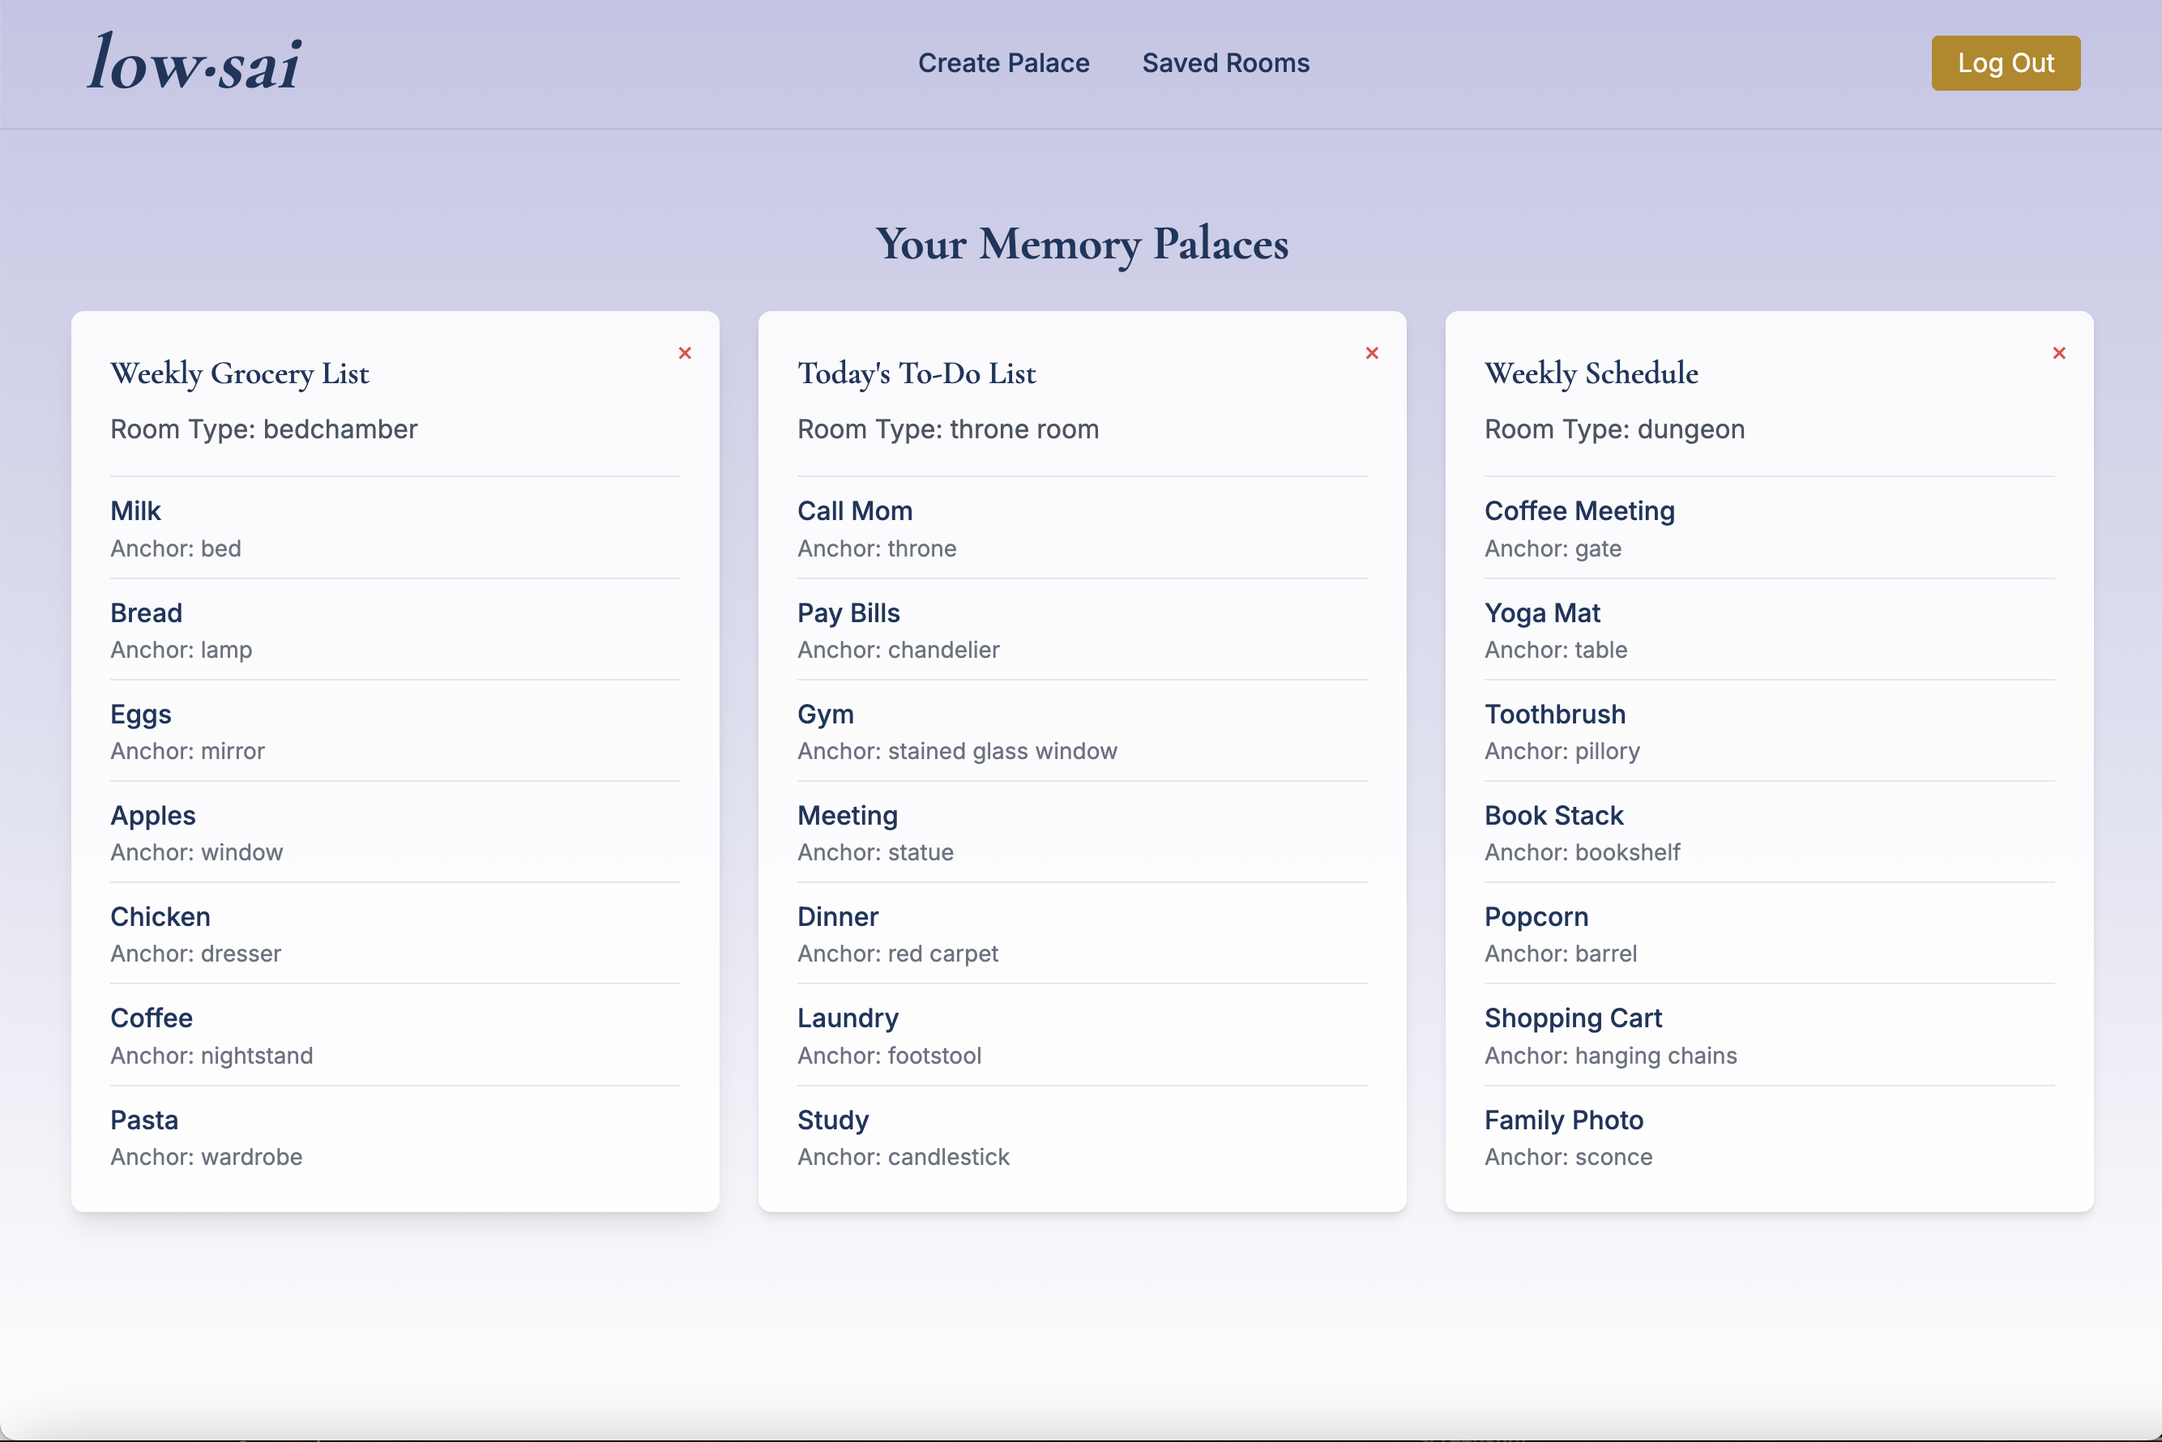
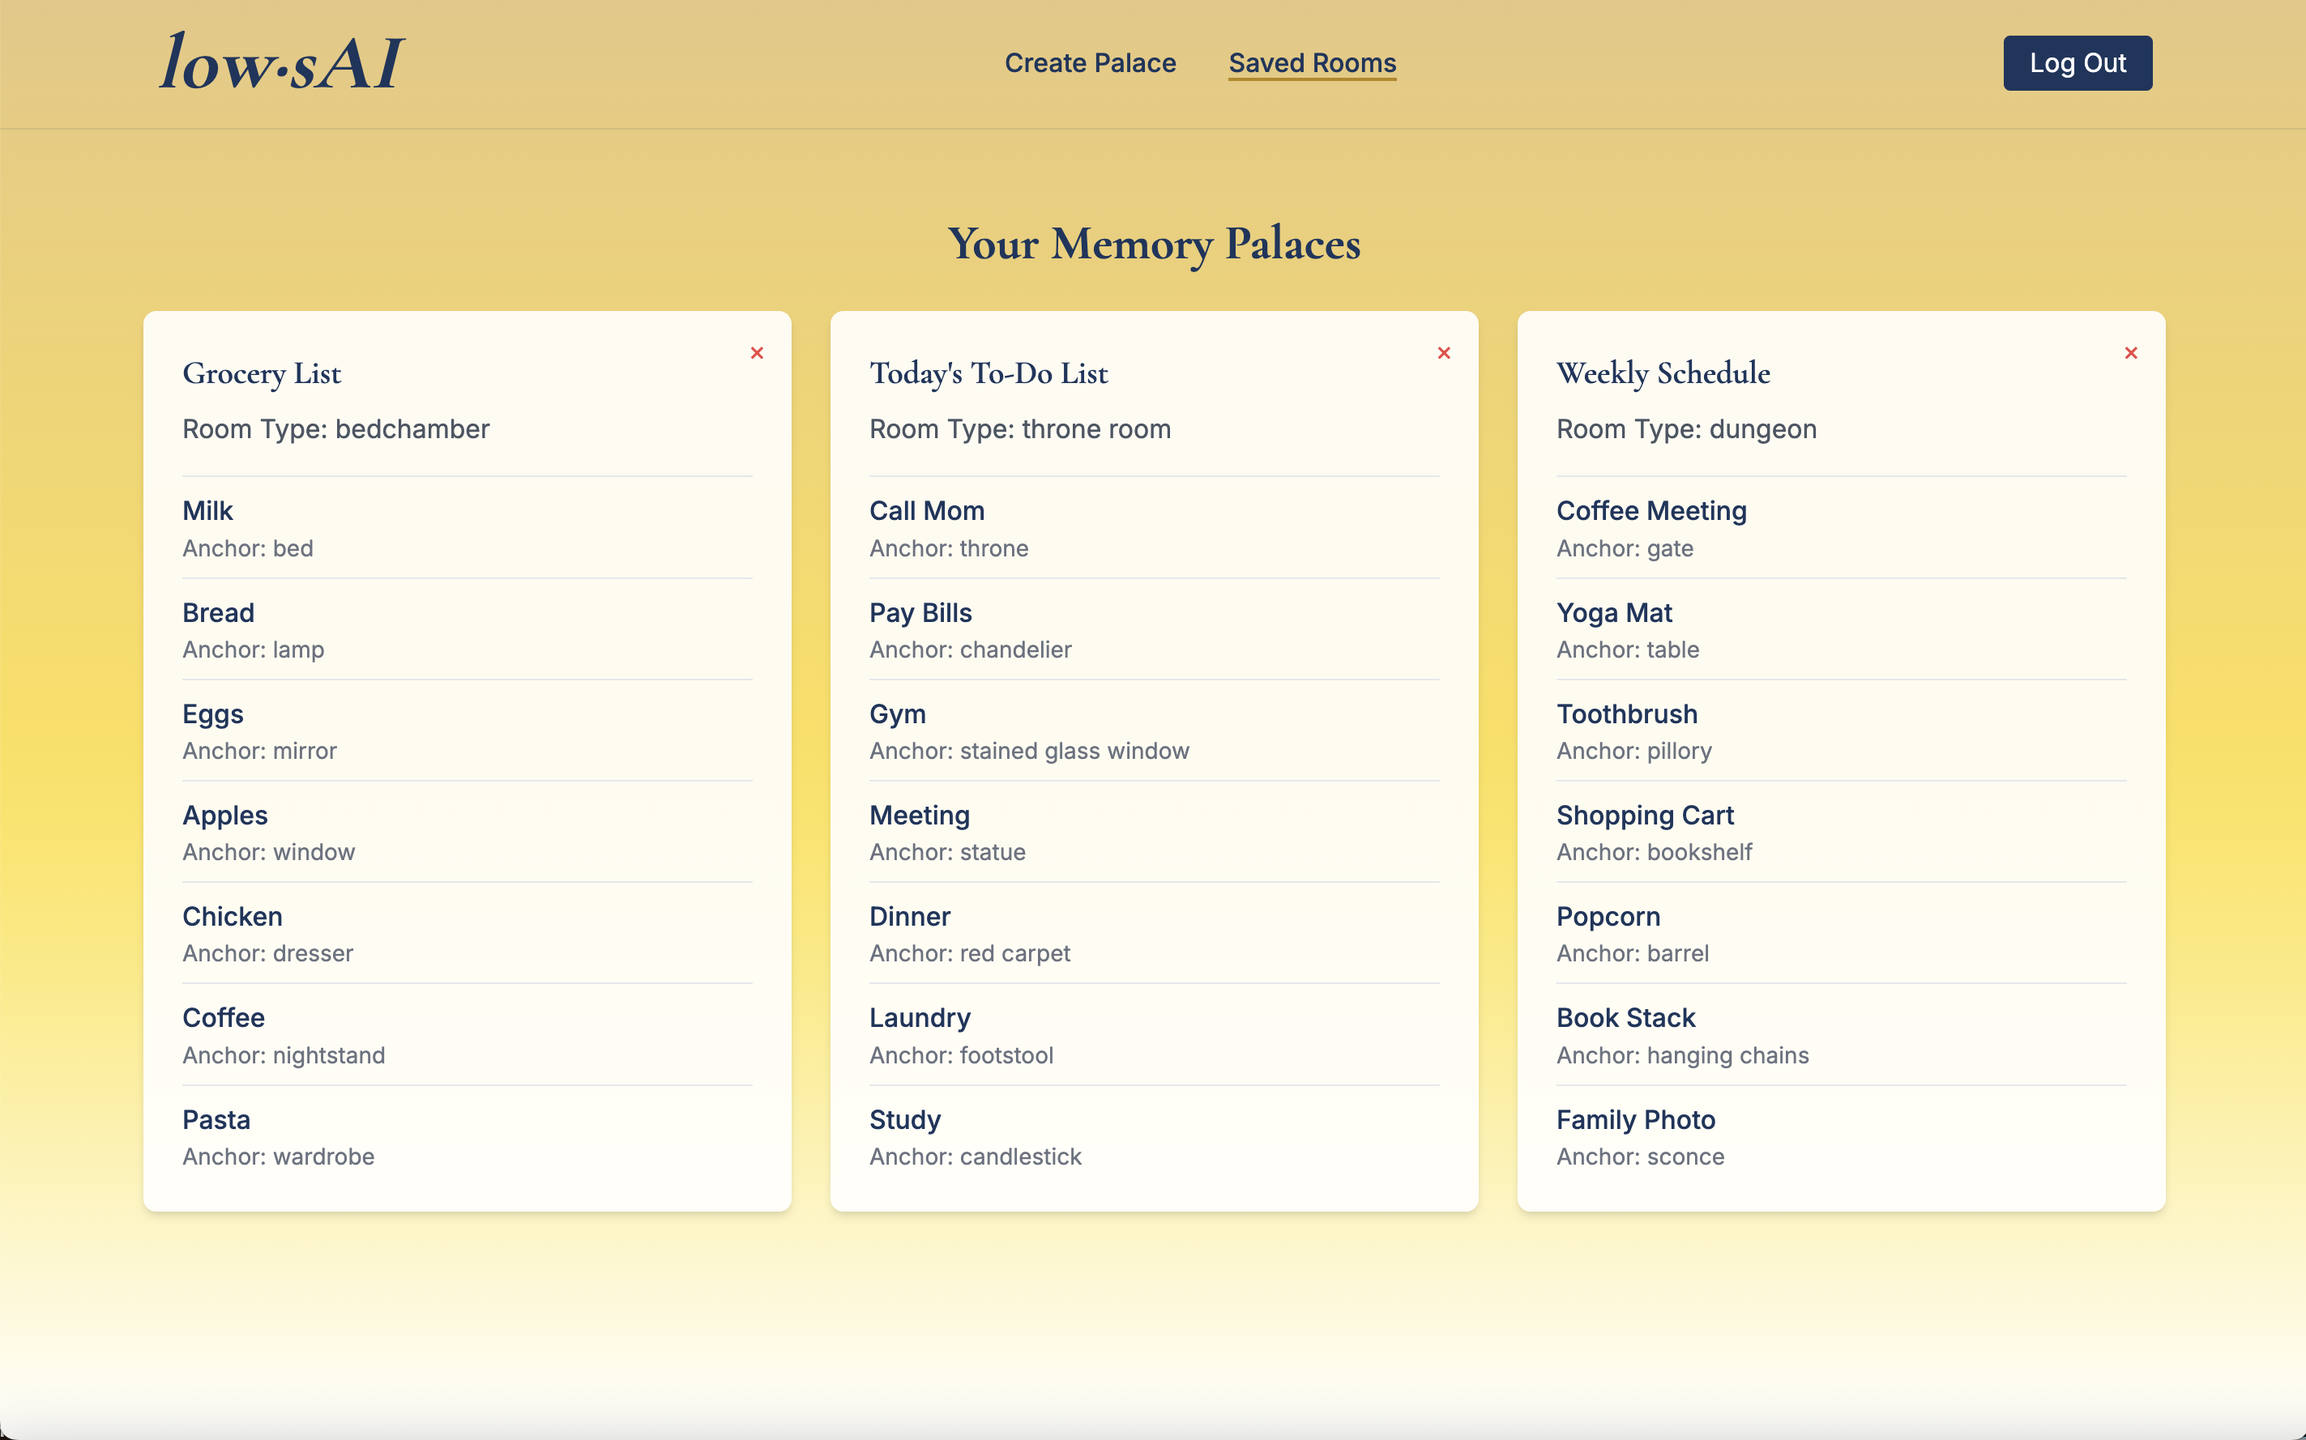
loading spinner

diff --git a/client/src/components/LandingPage.js b/client/src/components/LandingPage.js
@@ -2,6 +2,7 @@ import React from 'react';
 import { useNavigate } from 'react-router-dom';
 import NavBar from './NavBar';
 import AuthModal from './AuthModal';
+import LoadingSpinner from './LoadingSpinner';
 import './LandingPage.css';
 
 const LandingPage = () => {
@@ -176,6 +177,42 @@ const LandingPage = () => {
                 );
               }
             })}
+          </div>
+        </section>
+        {/* Coming Soon Section */}
+        <section className="py-20 px-4 bg-gradient-to-b from-white to-[#2B4C7E]/10">
+          <div className="container mx-auto max-w-6xl">
+            <h2 className="loci-header text-4xl text-center mb-12 !text-primary">
+              Coming Soon
+            </h2>
+            <div className="grid md:grid-cols-2 lg:grid-cols-3 gap-8">
+              <div className="bg-white/80 p-6 rounded-lg shadow-lg">
+                <div className="text-4xl mb-4">🔐</div>
+                <h3 className="text-xl font-semibold mb-2 text-primary">User Accounts</h3>
+                <p className="text-text-light">Save and manage multiple memory palaces with your personal account.</p>
+              </div>
+              <div className="bg-white/80 p-6 rounded-lg shadow-lg">
+                <div className="text-4xl mb-4">🎨</div>
+                <h3 className="text-xl font-semibold mb-2 text-primary">More Room Types</h3>
+                <p className="text-text-light">New room types including Great Hall, Chapel, and Kitchen coming soon.</p>
+              </div>
+              <div className="bg-white/80 p-6 rounded-lg shadow-lg">
+                <div className="text-4xl mb-4">📱</div>
+                <h3 className="text-xl font-semibold mb-2 text-primary">Mobile App</h3>
+                <p className="text-text-light">Access your memory palaces on the go with our upcoming mobile app.</p>
+              </div>
+              <div className="bg-white/80 p-6 rounded-lg shadow-lg">
+                <div className="text-4xl mb-4">🧠</div>
+                <h3 className="text-xl font-semibold mb-2 text-primary">Enhanced Memory Creation</h3>
+                <p className="text-text-light">Two-stage AI process: LLM generates creative associations, followed by AI image generation for more memorable visual anchors.</p>
+              </div>
+              <div className="hidden lg:block"></div>
+              <div className="bg-white/80 p-6 rounded-lg shadow-lg">
+                <div className="text-4xl mb-4">🏠</div>
+                <h3 className="text-xl font-semibold mb-2 text-primary">Custom Room Creation</h3>
+                <p className="text-text-light">Create personalized memory palaces using AI to generate rooms that match your familiar spaces, making memory associations even stronger.</p>
+              </div>
+            </div>
           </div>
         </section>
         {/* Use Cases Section */}

diff --git a/client/src/components/AuthModal.js b/client/src/components/AuthModal.js
@@ -1,4 +1,5 @@
 import React from 'react';
+import LoadingSpinner from './LoadingSpinner';
 
 const AuthModal = ({ isOpen, onClose, mode, onSubmit, error, isLoading, formData, setFormData }) => {
     const handleInputChange = (e) => {
@@ -51,6 +52,7 @@ const AuthModal = ({ isOpen, onClose, mode, onSubmit, error, isLoading, formData
                             className="w-full px-4 py-2 border border-gray-300 rounded-md focus:outline-none focus:ring-2 focus:ring-primary focus:border-transparent"
                             required
                             autoComplete="off"
+                            disabled={isLoading}
                         />
                     </div>
 
@@ -67,6 +69,7 @@ const AuthModal = ({ isOpen, onClose, mode, onSubmit, error, isLoading, formData
                             className="w-full px-4 py-2 border border-gray-300 rounded-md focus:outline-none focus:ring-2 focus:ring-primary focus:border-transparent"
                             required
                             autoComplete="new-password"
+                            disabled={isLoading}
                         />
                     </div>
 
@@ -83,6 +86,7 @@ const AuthModal = ({ isOpen, onClose, mode, onSubmit, error, isLoading, formData
                                 onChange={handleInputChange}
                                 className="w-full px-4 py-2 border border-gray-300 rounded-md focus:outline-none focus:ring-2 focus:ring-primary focus:border-transparent"
                                 required
+                                disabled={isLoading}
                             />
                         </div>
                     )}
@@ -90,9 +94,16 @@ const AuthModal = ({ isOpen, onClose, mode, onSubmit, error, isLoading, formData
                     <button
                         type="submit"
                         disabled={isLoading}
-                        className="w-full px-6 py-3 bg-primary text-white rounded-lg hover:bg-primary-dark transition-colors duration-300 disabled:opacity-50 font-medium"
+                        className="w-full px-6 py-3 bg-primary text-white rounded-lg hover:bg-primary-dark transition-colors duration-300 disabled:opacity-50 font-medium flex items-center justify-center"
                     >
-                        {isLoading ? 'Processing...' : (mode === 'login' ? 'Login' : 'Sign Up')}
+                        {isLoading ? (
+                            <>
+                                <LoadingSpinner size="sm" text="" className="mr-2" />
+                                Processing...
+                            </>
+                        ) : (
+                            mode === 'login' ? 'Login' : 'Sign Up'
+                        )}
                     </button>
                 </form>
             </div>

diff --git a/client/src/components/InputPage.js b/client/src/components/InputPage.js
@@ -2,6 +2,7 @@ import React, { useState, useEffect } from 'react';
 import axios from 'axios';
 import { ROOM_ANCHOR_POSITIONS } from '../constants/roomData';
 import NavBar from './NavBar';
+import LoadingSpinner from './LoadingSpinner';
 
 const ROOM_TYPES = [
     "throne room",
@@ -102,7 +103,7 @@ const InputPage = ({ onImagesGenerated, setIsLoading, isLoading }) => {
         setError(null);
     };
 
-    const handleProceedToVisualizer = () => {
+    const handleProceedToVisualizer = async () => {
         const memorablesList = memorables.split('\n')
             .map(item => item.trim())
             .filter(Boolean);
@@ -228,10 +229,17 @@ const InputPage = ({ onImagesGenerated, setIsLoading, isLoading }) => {
                                 <button
                                     type="submit"
                                     onClick={handleProceedToVisualizer}
-                                    className="flex-1 btn-loci text-lg px-8 py-4"
                                     disabled={isLoading}
+                                    className="flex-1 btn-loci text-lg px-8 py-4 disabled:opacity-50 disabled:cursor-not-allowed flex items-center justify-center"
                                 >
-                                    PROCEED TO VISUALIZER
+                                    {isLoading ? (
+                                        <>
+                                            <LoadingSpinner size="sm" text="" className="mr-2" />
+                                            GENERATING IMAGES...
+                                        </>
+                                    ) : (
+                                        'PROCEED TO VISUALIZER'
+                                    )}
                                 </button>
                                 <button
                                     type="button"

diff --git a/client/src/components/HomePage.js b/client/src/components/HomePage.js
@@ -2,6 +2,7 @@ import React, { useState } from 'react';
 import { useNavigate } from 'react-router-dom';
 import NavBar from './NavBar';
 import AuthModal from './AuthModal';
+import LoadingSpinner from './LoadingSpinner';
 import floatingCastle from '../assets/floating-castle.png';
 import wizardHat from '../assets/wizard-hat.png';
 import magicWand from '../assets/magic-wand.png';
@@ -130,9 +131,16 @@ const HomePage = () => {
                 <button
                         onClick={handleDemoLogin}
                         disabled={isLoading}
-                        className="px-8 py-4 bg-primary text-white rounded-lg hover:bg-primary-dark transition-colors duration-300 disabled:opacity-50 font-medium text-lg"
+                        className="px-8 py-4 bg-primary text-white rounded-lg hover:bg-primary-dark transition-colors duration-300 disabled:opacity-50 font-medium text-lg flex items-center justify-center mx-auto"
                 >
-                        Try Demo Version
+                        {isLoading ? (
+                            <>
+                                <LoadingSpinner size="sm" text="" className="mr-2" />
+                                Loading Demo...
+                            </>
+                        ) : (
+                            'Try Demo Version'
+                        )}
                 </button>
                 </div>
 

diff --git a/client/src/components/VisualizerPage.js b/client/src/components/VisualizerPage.js
@@ -4,6 +4,7 @@ import ImagePopup from './ImagePopup';
 import SaveRoomModal from './SaveRoomModal';
 import { generateImage } from '../services/imageService';
 import NavBar from './NavBar';
+import LoadingSpinner from './LoadingSpinner';
 
 const VisualizerPage = () => {
   const [selectedAssociation, setSelectedAssociation] = useState(null);
@@ -199,9 +200,14 @@ const VisualizerPage = () => {
                   height: '40px',
                 }}
                 onClick={(e) => handleClick(assoc, e)}
+                disabled={isLoading}
               >
-                <div className="w-full h-full flex items-center justify-center text-white/40 hover:text-white/60 transition-colors duration-200 text-xl font-bold">
-                  {acceptedImages[assoc.anchor] && acceptedImages[assoc.anchor].image ? '✓' : '?'}
+                <div className="w-full h-full bg-primary bg-opacity-75 rounded-full flex items-center justify-center text-white text-xs font-bold hover:bg-opacity-100 transition-all duration-200">
+                  {isLoading && selectedAssociation?.anchor === assoc.anchor ? (
+                    <LoadingSpinner size="sm" text="" />
+                  ) : (
+                    index + 1
+                  )}
                 </div>
               </button>
             );

diff --git a/client/src/components/SavedRooms.js b/client/src/components/SavedRooms.js
@@ -1,6 +1,7 @@
 import React, { useState, useEffect } from 'react';
 import { useNavigate } from 'react-router-dom';
 import NavBar from './NavBar';
+import LoadingSpinner from './LoadingSpinner';
 
 const API_URL = 'http://localhost:5000';
 
@@ -164,7 +165,9 @@ const SavedRooms = () => {
             <div className="min-h-screen bg-background">
                 <NavBar onLogout={handleLogout} />
                 <div className="container mx-auto px-4 py-8">
-                    <div className="text-center">Loading...</div>
+                    <div className="flex items-center justify-center min-h-[400px]">
+                        <LoadingSpinner size="lg" text="Loading your memory palaces..." />
+                    </div>
                 </div>
             </div>
         );
@@ -182,7 +185,7 @@ const SavedRooms = () => {
     }
 
     return (
-        <div className="min-h-screen bg-gradient-to-b from-[#EFBF04]/80 via-[#EFBF04]/20 to-white">
+        <div className="min-h-screen bg-gradient-to-b from-[#DAA520]/60 via-[#FFD700]/40 to-white">
             <NavBar onLogout={handleLogout} />
             <div className="container mx-auto px-4 py-8">
                 <h1 className="text-3xl font-bold mb-6 text-center">

diff --git a/client/src/components/LoadingSpinner.js b/client/src/components/LoadingSpinner.js
@@ -1,0 +1,30 @@
+import React from 'react';
+
+const LoadingSpinner = ({ size = 'md', text = 'Loading...', className = '' }) => {
+  const sizeClasses = {
+    sm: 'w-4 h-4',
+    md: 'w-8 h-8',
+    lg: 'w-12 h-12',
+    xl: 'w-16 h-16'
+  };
+
+  const spinnerStyle = {
+    animation: 'spin 1s linear infinite',
+    border: '4px solid #e5e7eb',
+    borderTop: '4px solid #1B365D',
+    borderRadius: '50%',
+    width: size === 'sm' ? '16px' : size === 'md' ? '32px' : size === 'lg' ? '48px' : '64px',
+    height: size === 'sm' ? '16px' : size === 'md' ? '32px' : size === 'lg' ? '48px' : '64px',
+  };
+
+  return (
+    <div className={`flex flex-col items-center justify-center ${className}`}>
+      <div style={spinnerStyle}></div>
+      {text && (
+        <p className="mt-2 text-sm text-gray-600">{text}</p>
+      )}
+    </div>
+  );
+};
+
+export default LoadingSpinner;

diff --git a/client/src/components/ImagePopup.js b/client/src/components/ImagePopup.js
@@ -1,4 +1,5 @@
 import React from 'react';
+import LoadingSpinner from './LoadingSpinner';
 import './ImagePopup.css';
 
 const ImagePopup = ({
@@ -42,8 +43,7 @@ const ImagePopup = ({
 
         {isLoading && (
           <div className="text-center py-6">
-            <div className="animate-spin rounded-full h-8 w-8 border-b-2 border-primary mx-auto"></div>
-            <p className="mt-3 text-text-light">Creating your memorable image...</p>
+            <LoadingSpinner size="lg" text="Creating your memorable image..." />
           </div>
         )}
 

diff --git a/client/src/components/LoadingOverlay.js b/client/src/components/LoadingOverlay.js
@@ -1,0 +1,17 @@
+import React from 'react';
+import LoadingSpinner from './LoadingSpinner';
+
+const LoadingOverlay = ({ isVisible, text = 'Loading...', children }) => {
+  if (!isVisible) return children;
+
+  return (
+    <div className="relative">
+      {children}
+      <div className="absolute inset-0 bg-white bg-opacity-75 flex items-center justify-center z-50">
+        <LoadingSpinner size="lg" text={text} />
+      </div>
+    </div>
+  );
+};
+
+export default LoadingOverlay;

diff --git a/client/tailwind.config.js b/client/tailwind.config.js
@@ -28,10 +28,15 @@ module.exports = {
           '33%': { content: '..' },
           '66%': { content: '...' },
           '100%': { content: '.' },
+        },
+        spin: {
+          '0%': { transform: 'rotate(0deg)' },
+          '100%': { transform: 'rotate(360deg)' },
         }
       },
       animation: {
-        ellipsis: 'ellipsis 1.5s infinite'
+        ellipsis: 'ellipsis 1.5s infinite',
+        spin: 'spin 1s linear infinite'
       }
     },
   },

diff --git a/client/src/index.css b/client/src/index.css
@@ -27,6 +27,20 @@
   --gradient-use-cases-end: #e2e8f0;
 }
 
+/* Custom Spinner Animation */
+@keyframes spin {
+  from {
+    transform: rotate(0deg);
+  }
+  to {
+    transform: rotate(360deg);
+  }
+}
+
+.animate-spin {
+  animation: spin 1s linear infinite;
+}
+
 /* Base Styles */
 body {
   font-family: 'Inter', sans-serif;
